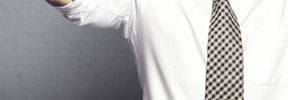
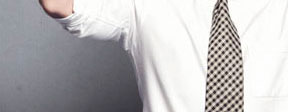
Замена картинок в блоге и в веб-каруселе

diff --git a/public/index.html b/public/index.html
@@ -456,10 +456,10 @@
                                 <div class="carousel-container">
                                     <div class="framework-carousel">
                                         <ul class="bxslider-framework">
-                                            <li><img src="images/dom-wf-1.jpg" alt="Slide 1">
-                                            </li>
-                                            <li><img src="images/dom-wf-1.jpg" alt="Slide 2"></li>
-                                            <li><img src="images/dom-wf-1.jpg" alt="Slide 3"></li>
+                                            <li><img src="images/web-img-1.png" alt="Slide"></li>
+                                            <li><img src="images/web-img-2.png" alt="Slide"></li>
+                                            <li><img src="images/web-img-3.png" alt="Slide"></li>
+                                            <li><img src="images/web-img-4.png" alt="Slide"></li>
                                         </ul>
                                         <div class="outside">
                                             <span class="slider-prev_frame"></span>
@@ -474,9 +474,10 @@
                                     <div class="carousel-frame-popup-holder">
                                         <div class="carousel-frame-popup">
                                             <ul class="bxslider-frame-popup">
-                                                <li><img src="images/dom-wf-1.jpg" alt="Slide 1"></li>
-                                                <li><img src="images/dom-wf-1.jpg" alt="Slide 2"></li>
-                                                <li><img src="images/dom-wf-1.jpg" alt="Slide 3"></li>
+                                                <li><img src="images/web-img-1.1.png" alt="Slide"></li>
+                                                <li><img src="images/web-img-2.1.png" alt="Slide"></li>
+                                                <li><img src="images/web-img-3.1.png" alt="Slide"></li>
+                                                <li><img src="images/web-img-4.1.png" alt="Slide"></li>
                                             </ul>
                                             <div class="outside">
                                                 <span class="frame-prev"></span>
